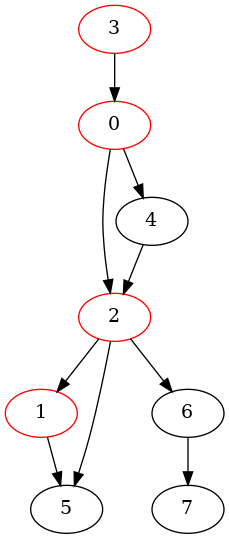
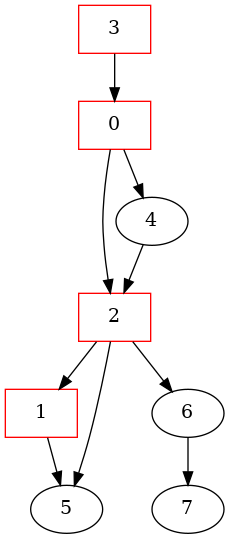
Upate Tutorials/Week5

diff --git a/Tutorials/Week5/src/Graph.c b/Tutorials/Week5/src/Graph.c
@@ -12,7 +12,8 @@
 
 // Storing information of a graph node
 struct GraphNode {
-    char name[MAX_ID_LEN + 1]; 
+    char name[MAX_ID_LEN + 1];
+    int onstack;
 };
 
 struct Graph{
@@ -209,6 +210,7 @@ void NonRecursiveDFS(struct Graph *pGraph, long u) {
 
 static void DepthFirstSearch(struct Graph *pGraph, long u, int *visited) {
     visited[u] = 1;
+    pGraph->pNodes[u].onstack = 1;
     printf("visiting %s\n", pGraph->pNodes[u].name);
     
     static long i = 0;
@@ -221,6 +223,7 @@ static void DepthFirstSearch(struct Graph *pGraph, long u, int *visited) {
             DepthFirstSearch(pGraph, v, visited);
         }
     }
+    pGraph->pNodes[u].onstack = 0;
 }
 
 void RecursiveDFS(struct Graph *pGraph, long u) {
@@ -228,6 +231,7 @@ void RecursiveDFS(struct Graph *pGraph, long u) {
     //memset(visited, 0, sizeof(int) * pGraph->n);
     for (long v = 0; v < pGraph->n; v++) {
         visited[v] = 0;
+        pGraph->pNodes[v].onstack = 0;
     }
     GenOneImage(pGraph, "dfs", "images/RecursiveDFS", 0, visited);
     DepthFirstSearch(pGraph, u, visited);
@@ -325,13 +329,31 @@ void Graph2Dot(struct Graph *pGraph,
         //         }
         //     }
         // }
+
+        // for (long i = 0; i < pGraph->n; i++) {
+        //     if (displayVisited && visited && visited[i]) {
+        //         fprintf(dotFile, "\"%s\" [color=red]\n", pGraph->pNodes[i].name);
+        //     } else {
+        //         fprintf(dotFile, "\"%s\"\n", pGraph->pNodes[i].name);
+        //     }
+        // }
+
         for (long i = 0; i < pGraph->n; i++) {
             if (displayVisited && visited && visited[i]) {
-                fprintf(dotFile, "\"%s\" [color=red]\n", pGraph->pNodes[i].name);
+                if (pGraph->pNodes[i].onstack) {
+                    fprintf(dotFile, "\"%s\" [color=red] [shape=box]\n", pGraph->pNodes[i].name);
+                } else {
+                    fprintf(dotFile, "\"%s\" [color=red]\n", pGraph->pNodes[i].name);
+                }
             } else {
-                fprintf(dotFile, "\"%s\"\n", pGraph->pNodes[i].name);
+                if (pGraph->pNodes[i].onstack) {
+                    fprintf(dotFile, "\"%s\"  [shape=box]\n", pGraph->pNodes[i].name);
+                } else {
+                    fprintf(dotFile, "\"%s\"\n", pGraph->pNodes[i].name);
+                }
             }
-        }                
+        }
+
         fprintf(dotFile, "}\n");
         fclose(dotFile);
     }                
